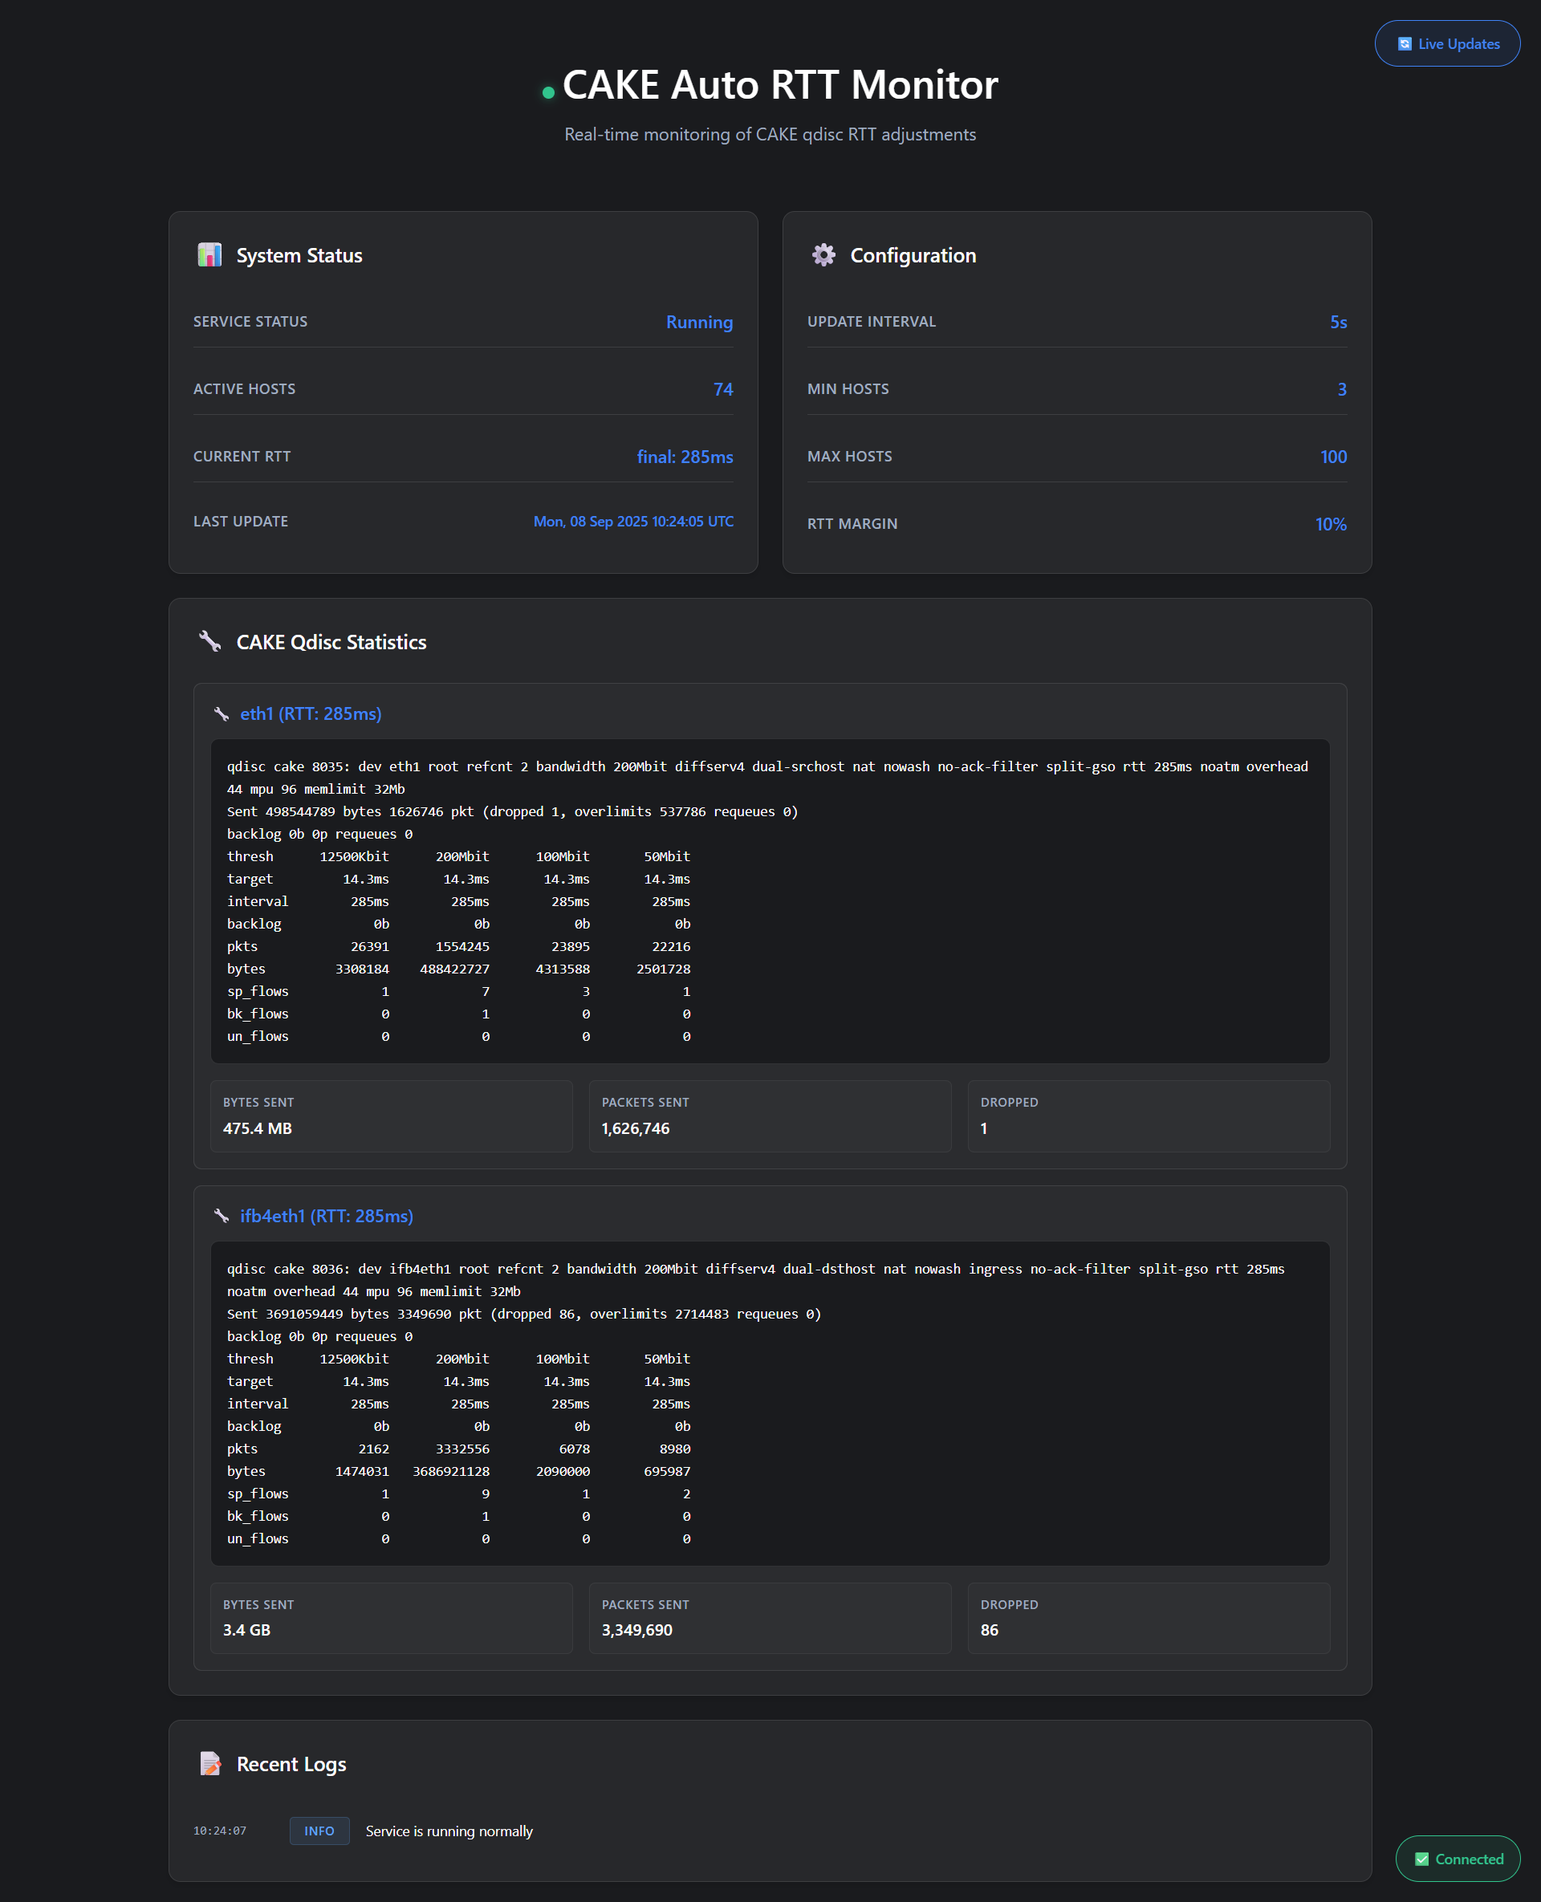
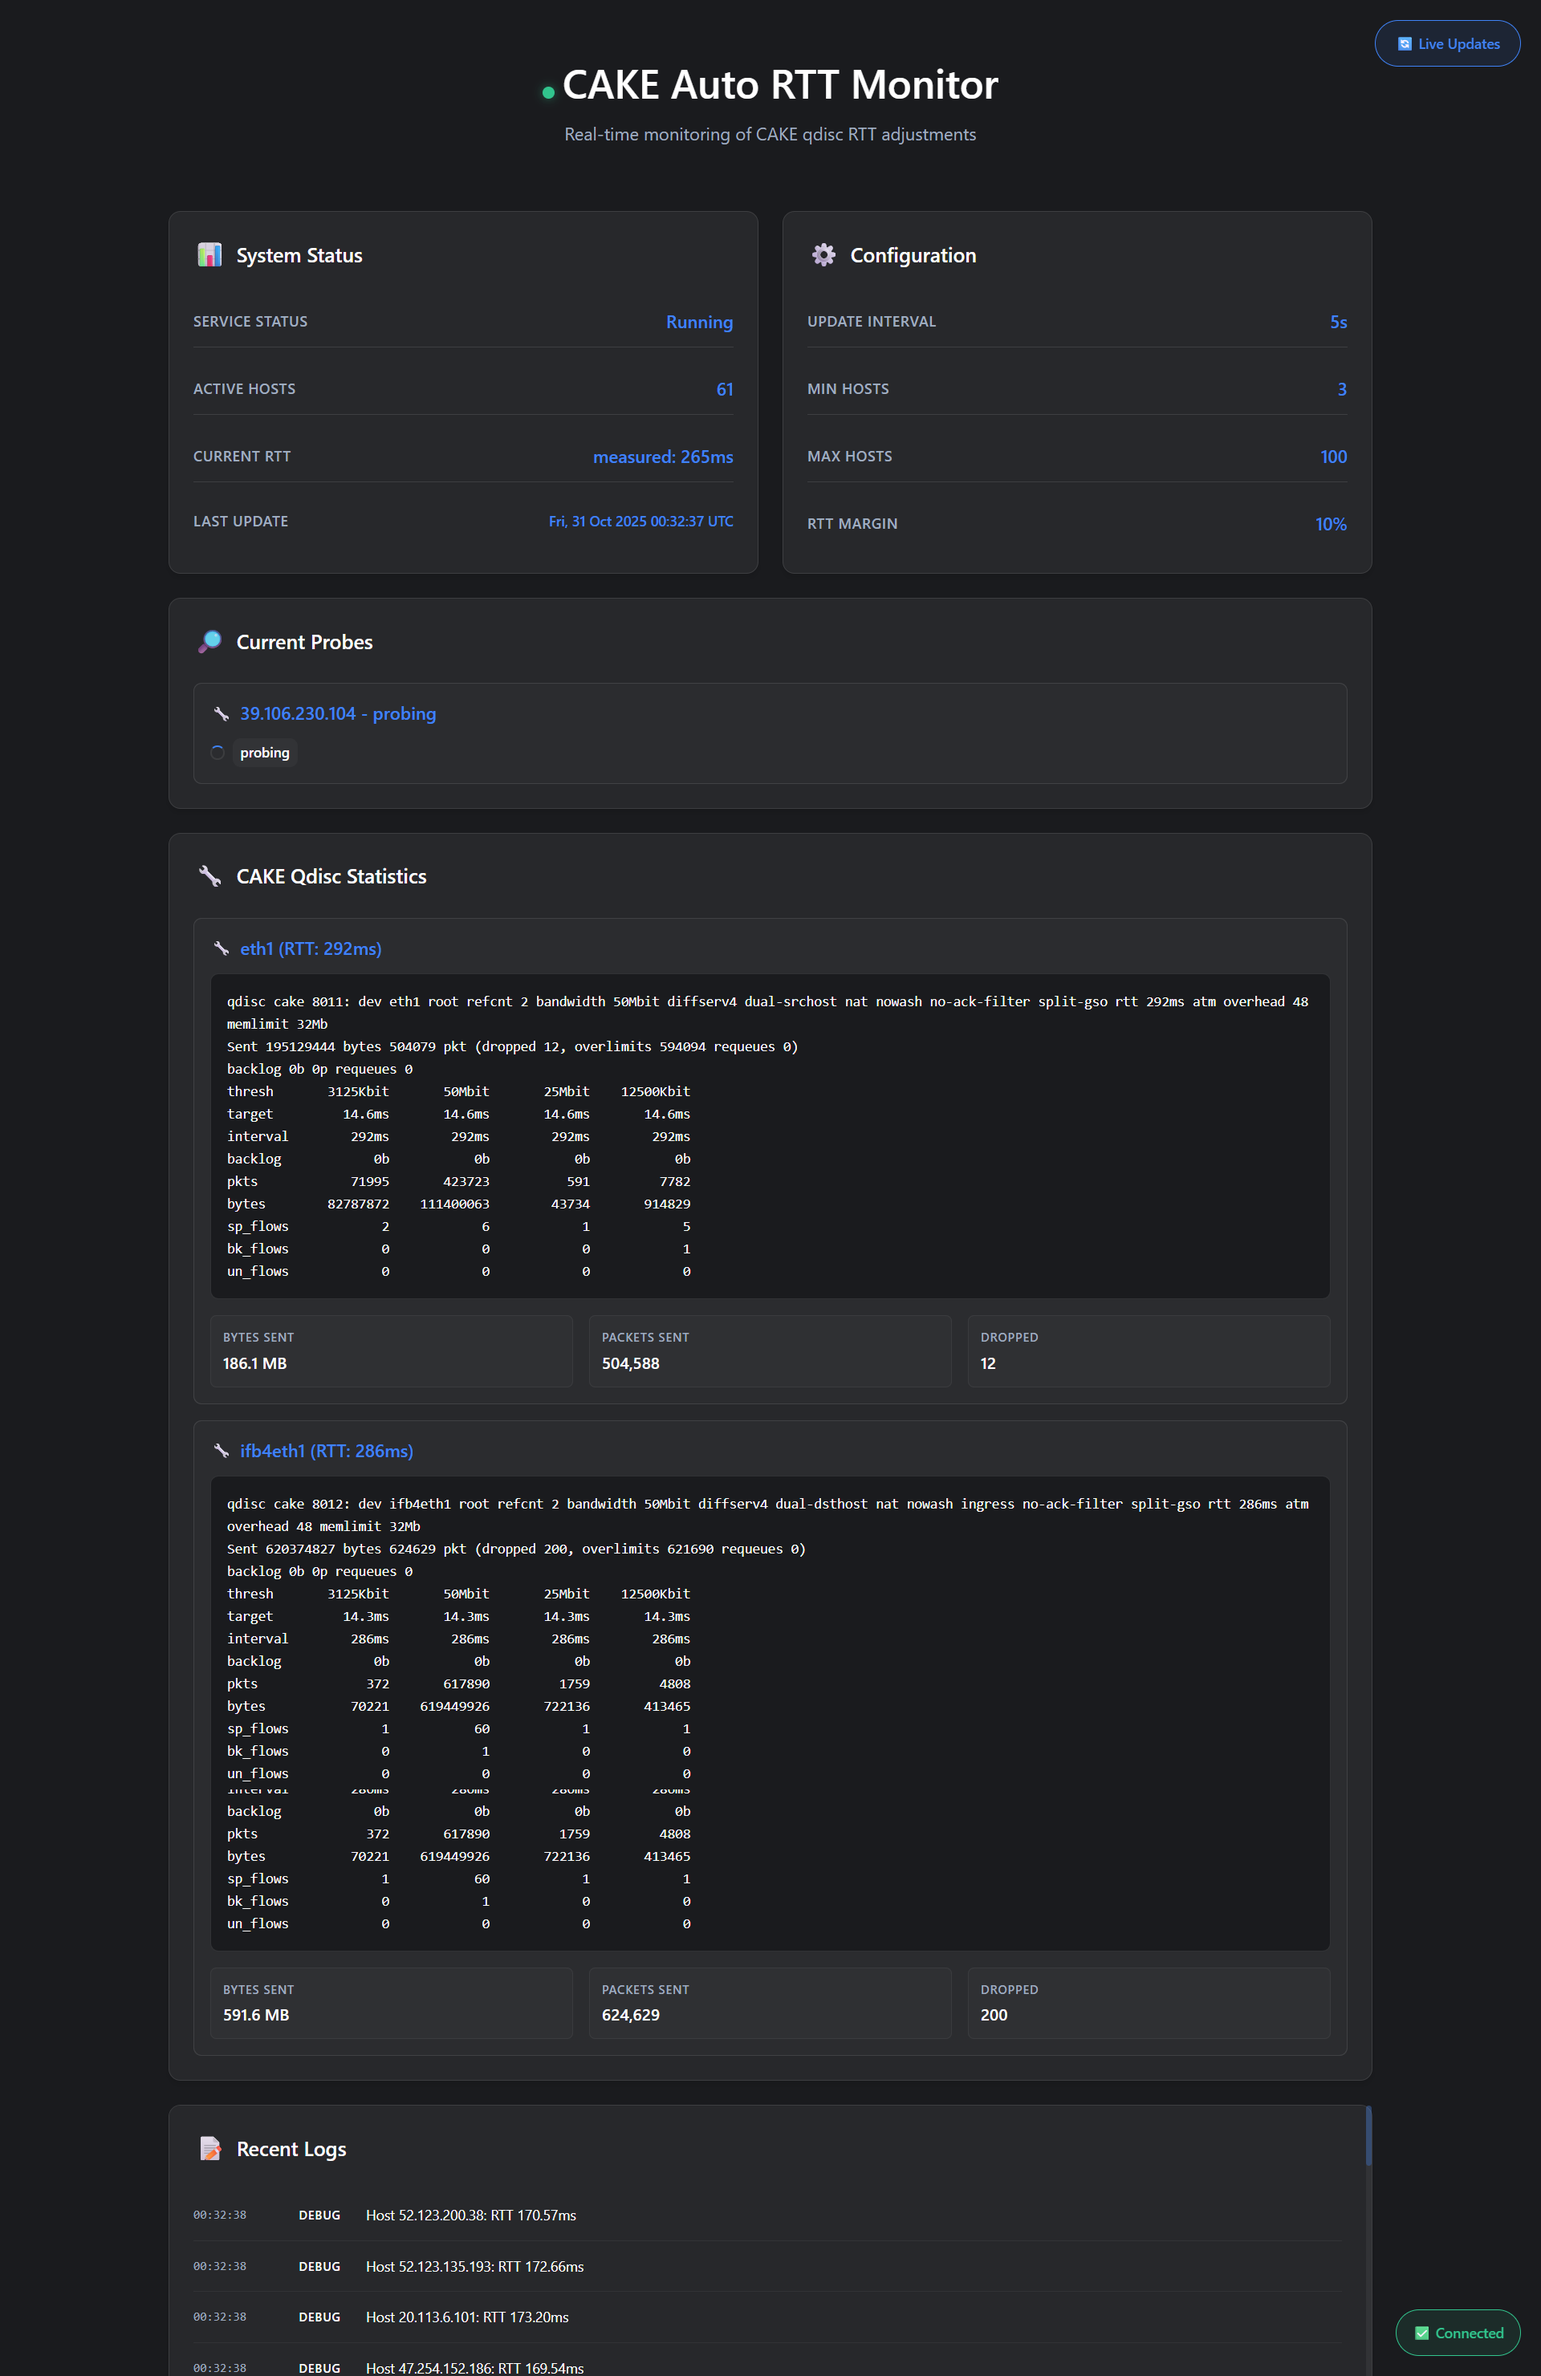
Improve config loading and template override support
Config file loading in main.go now treats missing files and platform-specific errors as non-fatal, using defaults and logging a warning. The webserver now prefers disk-based templates if available, falling back to embedded templates for missing files, allowing user overrides while ensuring reliability. The index.html UI for probes is improved for clarity and compactness, and the probe rendering logic is updated to match the new layout.

diff --git a/web/templates/index.html b/web/templates/index.html
@@ -111,15 +111,12 @@
             border-radius: 0.75rem;
             padding: 1.5rem;
             box-shadow: 0 4px 6px rgba(0, 0, 0, 0.1);
-            transition: all 0.3s ease;
+            transition: box-shadow 0.25s ease, border-color 0.25s ease;
             border: 1px solid rgba(255, 255, 255, 0.1);
         }
 
         .card:hover {
-            /* keep a subtle elevation and blue border but remove shaking/motion */
-            transform: translateY(-3px)
-                /* slight lift only */
-            ;
+            /* Keep subtle blue border + stronger shadow, without moving the card */
             box-shadow: 0 8px 15px rgba(0, 0, 0, 0.15);
             border-color: var(--accent-primary);
         }
@@ -172,6 +169,48 @@
 
         .qdisc-stats {
             grid-column: 1 / -1;
+        }
+
+        /* Probes list should match Recent Logs layout: full-width and scrollable */
+        .probes-container {
+            grid-column: 1 / -1;
+            max-height: 360px;
+            overflow-y: auto;
+        }
+
+        /* Compact probe metadata row */
+        .probe-meta {
+            display: flex;
+            align-items: center;
+            gap: 0.5rem;
+            margin-top: 0.5rem;
+            color: var(--text-secondary);
+            font-size: 0.85rem;
+        }
+
+        .probe-spinner {
+            width: 14px;
+            height: 14px;
+            border-radius: 50%;
+            border: 2px solid rgba(255, 255, 255, 0.08);
+            border-top-color: var(--accent-primary);
+            animation: spin 0.8s linear infinite;
+            background: transparent;
+            display: inline-block;
+        }
+
+        .probe-pill {
+            padding: 0.25rem 0.5rem;
+            border-radius: 0.5rem;
+            background: rgba(255, 255, 255, 0.03);
+            color: var(--text-primary);
+            font-weight: 600;
+            font-size: 0.85rem;
+        }
+
+        .probe-error {
+            color: var(--error);
+            font-weight: 600;
         }
 
         .qdisc-item {
@@ -555,7 +594,7 @@
                 </div>
             </div>
 
-            <div class="card">
+            <div class="card probes-container">
                 <h3><span class="card-icon">🔎</span>Current Probes</h3>
                 <div id="probesContainer">
                     <div class="qdisc-item">No active probes</div>
@@ -730,8 +769,24 @@
             probes.forEach(p => {
                 const item = document.createElement('div');
                 item.className = 'qdisc-item';
-                item.innerHTML = `<div class="qdisc-interface">${p.host} - ${p.stage}${p.rtt_ms ? ` (${p.rtt_ms}ms)` : ''}</div>` +
-                    `<div class="qdisc-details">${p.error ? `Error: ${p.error}` : ''}</div>`;
+
+                const hostLine = `<div class="qdisc-interface">${p.host} - ${p.stage}${p.rtt_ms ? ` (${p.rtt_ms}ms)` : ''}</div>`;
+
+                // Build a compact meta row instead of a large dark details box
+                let meta = `<div class="probe-meta">`;
+                if (p.stage === 'probing') {
+                    meta += `<span class="probe-spinner" aria-hidden="true"></span><span class="probe-pill">probing</span>`;
+                } else if (p.stage === 'done') {
+                    meta += `<span class="probe-pill">${p.rtt_ms ? p.rtt_ms + 'ms' : 'done'}</span>`;
+                } else {
+                    meta += `<span class="probe-pill">${p.stage}</span>`;
+                }
+                if (p.error) {
+                    meta += `<span class="probe-error">Error: ${p.error}</span>`;
+                }
+                meta += `</div>`;
+
+                item.innerHTML = hostLine + meta;
                 container.appendChild(item);
             });
         }
@@ -740,7 +795,6 @@
             const container = document.getElementById('probesContainer');
             // Append completed probes after active probes, but keep visual separation
             if (!completed || completed.length === 0) return;
-
             const header = document.createElement('div');
             header.className = 'qdisc-item';
             header.innerHTML = `<div class="qdisc-interface">Recent Completed Probes</div>`;
@@ -749,8 +803,14 @@
             completed.forEach(p => {
                 const item = document.createElement('div');
                 item.className = 'qdisc-item';
-                item.innerHTML = `<div class="qdisc-interface">${p.host} - ${p.stage}${p.rtt_ms ? ` (${p.rtt_ms}ms)` : ''}</div>` +
-                    `<div class="qdisc-details">${p.error ? `Error: ${p.error}` : ''}</div>`;
+
+                const hostLine = `<div class="qdisc-interface">${p.host} - ${p.stage}${p.rtt_ms ? ` (${p.rtt_ms}ms)` : ''}</div>`;
+                let meta = `<div class="probe-meta">`;
+                meta += `<span class="probe-pill">${p.rtt_ms ? p.rtt_ms + 'ms' : p.stage}</span>`;
+                if (p.error) meta += `<span class="probe-error">Error: ${p.error}</span>`;
+                meta += `</div>`;
+
+                item.innerHTML = hostLine + meta;
                 container.appendChild(item);
             });
         }

diff --git a/webserver.go b/webserver.go
@@ -7,7 +7,9 @@ import (
 	"log"
 	"math"
 	"net/http"
+	"os"
 	"os/exec"
+	"path/filepath"
 	"regexp"
 	"strconv"
 	"strings"
@@ -81,8 +83,55 @@ func (ws *WebServer) Start() error {
 	r := gin.New()
 	r.Use(gin.Recovery())
 
-	// Load embedded templates
-	tmpl := template.Must(template.New("").ParseFS(templateFS, "web/templates/*"))
+	// Load templates with the following behavior:
+	// 1. If `web/templates/*` exists on disk, prefer parsing those so users can override templates.
+	// 2. Always register embedded templates as a fallback for any missing templates (this
+	//    ensures the binary works even if the on-disk HTML is deleted).
+	var tmpl *template.Template
+
+	// Helper: register embedded templates (by base name) into tmpl if missing
+	registerEmbeddedAsBase := func(t *template.Template) error {
+		entries, err := templateFS.ReadDir("web/templates")
+		if err != nil {
+			return err
+		}
+		for _, e := range entries {
+			if e.IsDir() {
+				continue
+			}
+			full := filepath.ToSlash(filepath.Join("web/templates", e.Name()))
+			// if the template (by base name) is missing, add it from the embedded FS
+			if t.Lookup(e.Name()) == nil {
+				b, err := templateFS.ReadFile(full)
+				if err != nil {
+					return err
+				}
+				if _, err := t.New(e.Name()).Parse(string(b)); err != nil {
+					return err
+				}
+			}
+		}
+		return nil
+	}
+
+	// Prefer disk templates if they exist
+	if _, err := os.Stat("web/templates/index.html"); err == nil {
+		// Parse on-disk templates (registers by base names)
+		t, err := template.ParseGlob("web/templates/*")
+		if err != nil {
+			// Fall back to embedded only
+			tmpl = template.Must(template.New("").ParseFS(templateFS, "web/templates/*"))
+		} else {
+			tmpl = t
+		}
+		// Ensure embedded templates fill any missing names
+		_ = registerEmbeddedAsBase(tmpl)
+	} else {
+		// No disk templates found; use embedded templates and register base names
+		tmpl = template.Must(template.New("").ParseFS(templateFS, "web/templates/*"))
+		_ = registerEmbeddedAsBase(tmpl)
+	}
+
 	r.SetHTMLTemplate(tmpl)
 
 	// Main monitoring page
@@ -111,6 +160,7 @@ func (ws *WebServer) Start() error {
 
 // handleIndex serves the main monitoring page
 func (ws *WebServer) handleIndex(c *gin.Context) {
+	// Render using the base template name so it works with both disk and embedded templates.
 	c.HTML(http.StatusOK, "index.html", gin.H{
 		"title": "CAKE Auto RTT Monitor",
 	})

diff --git a/main.go b/main.go
@@ -122,13 +122,17 @@ func loadConfig() error {
 	viper.SetEnvPrefix("CAKE_AUTORTT")
 	viper.AutomaticEnv()
 
-	// Read config file if it exists
+	// Read config file if it exists. Treat "file not found" and underlying
+	// os.IsNotExist errors as non-fatal (use defaults). On some platforms
+	// (Windows) viper may return an *os.PathError which should be treated
+	// as missing file rather than a fatal config parse error.
 	if err := viper.ReadInConfig(); err != nil {
-		if _, ok := err.(viper.ConfigFileNotFoundError); !ok {
+		if _, ok := err.(viper.ConfigFileNotFoundError); ok || os.IsNotExist(err) {
+			// Config file not found, use defaults
+			logMessage("WARN", "Config file not found, using defaults")
+		} else {
 			return fmt.Errorf("error reading config file: %w", err)
 		}
-		// Config file not found, use defaults
-		logMessage("WARN", "Config file not found, using defaults")
 	}
 
 	// Unmarshal config
